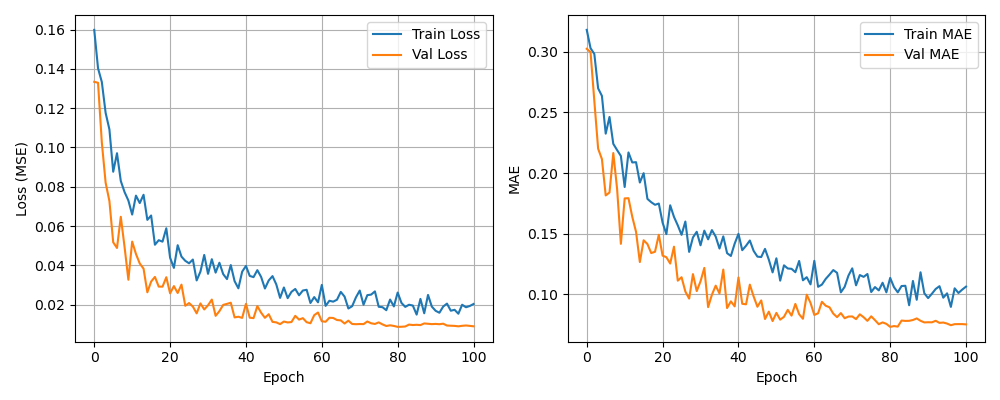
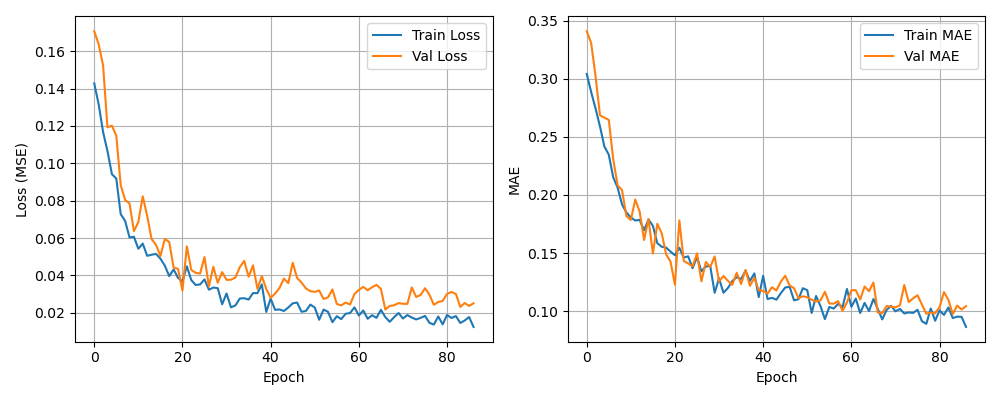
Add files via upload

diff --git a/Self-Driving/enhance/simulator.py b/Self-Driving/enhance/simulator.py
@@ -16,9 +16,10 @@ os.environ['TF_CPP_MIN_LOG_LEVEL'] = '2'
 import tensorflow as tf
 
 # ===================== 설정 =====================
-VIDEO_PATH = r"Self-driving.mp4"
-MODEL_PATH = r"steering_model.keras"
-DATA_DIR = r"training_data"
+BASE_DIR = os.path.dirname(os.path.abspath(__file__))
+VIDEO_PATH = os.path.join(BASE_DIR, "Self-driving.mp4")
+MODEL_PATH = os.path.join(BASE_DIR, "steering_model.keras")
+DATA_DIR = os.path.join(BASE_DIR, "training_data")
 IMG_WIDTH, IMG_HEIGHT = 160, 80
 
 
@@ -220,7 +221,7 @@ class SelfDrivingSimulator:
             print(f"  GT vs Pred MSE: {mse:.6f}")
 
         # 저장
-        save_img = os.path.join(r"C:\Users\Administrator\Desktop\Self-Driving", "simulator_result.png")
+        save_img = os.path.join(BASE_DIR, "simulator_result.png")
         print(f"  결과 저장 완료")
 
 

diff --git a/Self-Driving/enhance/train_model.py b/Self-Driving/enhance/train_model.py
@@ -14,8 +14,9 @@ import tensorflow as tf
 from tensorflow import keras
 
 # ===================== 설정 =====================
-DATA_DIR = r"training_data"
-MODEL_PATH = r"steering_model.keras"
+BASE_DIR = os.path.dirname(os.path.abspath(__file__))
+DATA_DIR = os.path.join(BASE_DIR, "training_data")
+MODEL_PATH = os.path.join(BASE_DIR, "steering_model.keras")
 BATCH_SIZE = 16
 EPOCHS = 120
 IMG_WIDTH, IMG_HEIGHT = 160, 80
@@ -166,7 +167,7 @@ def main():
     plt.grid(True)
 
     plt.tight_layout()
-    plt.savefig(os.path.join(r"C:\Users\Administrator\Desktop\Self-Driving", "training_history.png"))
+    plt.savefig("training_history.png")
     print(f"  학습 곡선: training_history.png")
 
 

diff --git a/Self-Driving/enhance/prepare_data.py b/Self-Driving/enhance/prepare_data.py
@@ -10,8 +10,9 @@ import os
 import json
 
 # ===================== 설정 =====================
-VIDEO_PATH = r"Self-driving.mp4"
-OUTPUT_DIR = r"training_data"
+BASE_DIR = os.path.dirname(os.path.abspath(__file__))
+VIDEO_PATH = os.path.join(BASE_DIR, "Self-driving.mp4")
+OUTPUT_DIR = os.path.join(BASE_DIR, "training_data")
 os.makedirs(OUTPUT_DIR, exist_ok=True)
 
 FRAME_STEP = 3        # 모든 프레임을 다 쓰면 너무 많음 → 3프레임마다 1개 추출